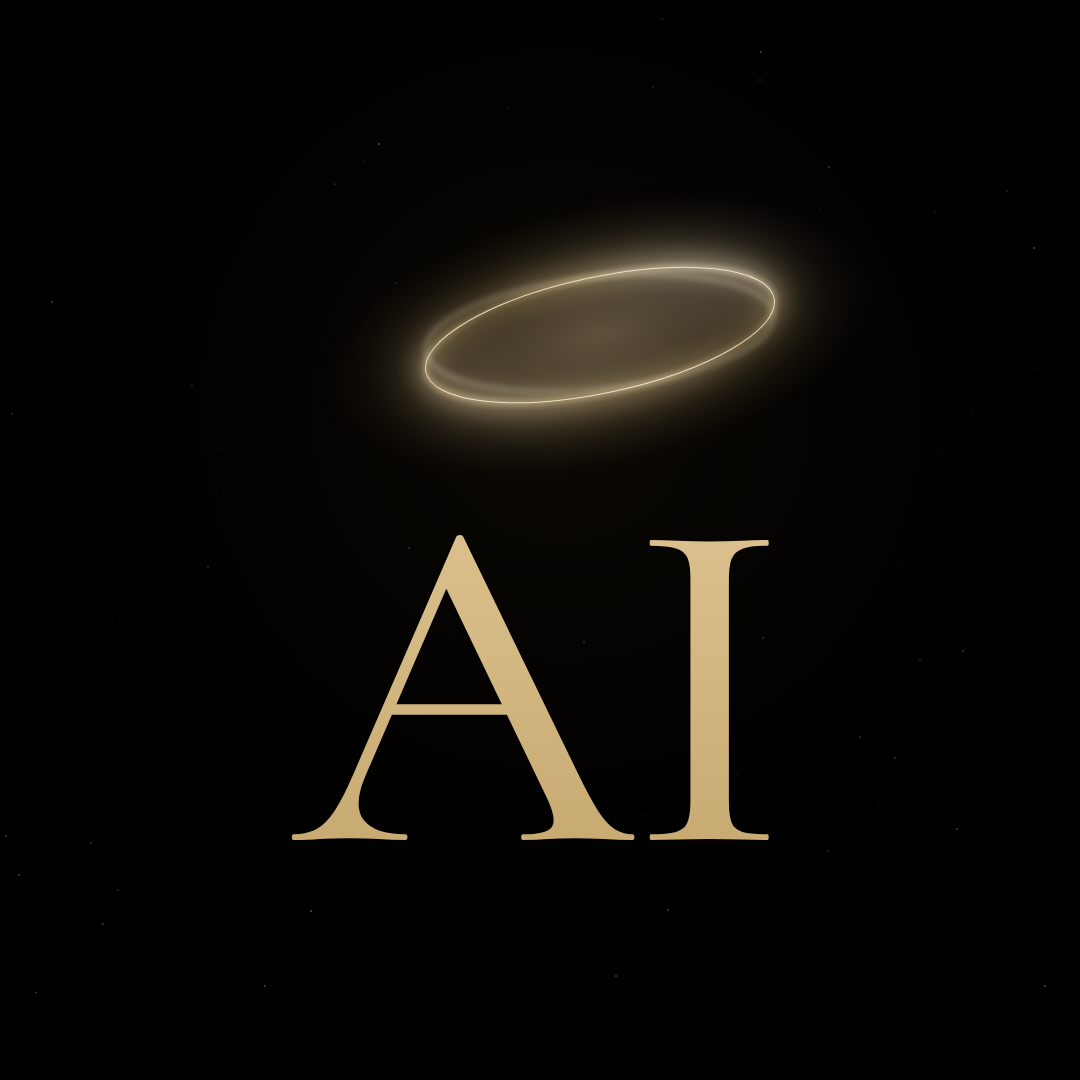
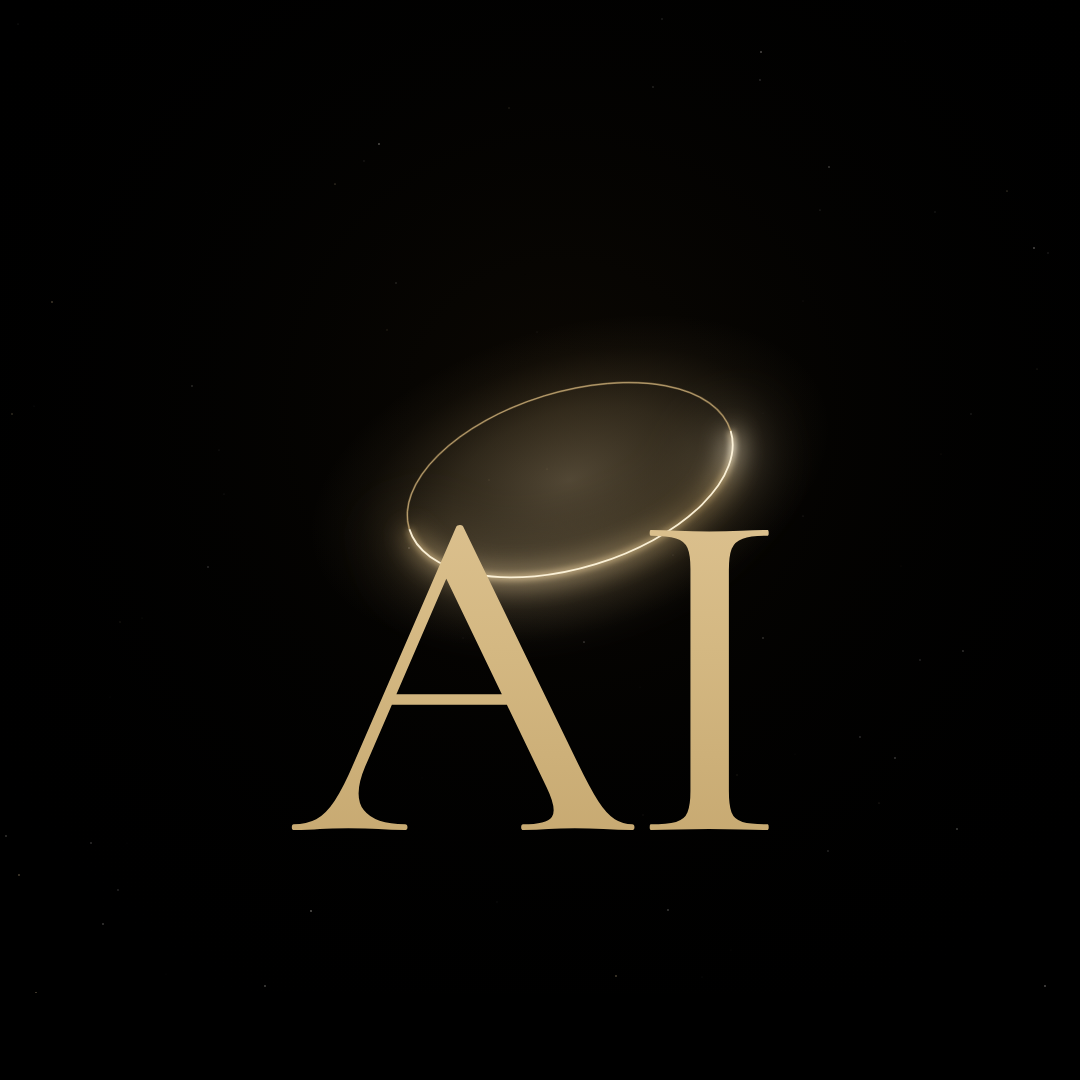
brand(assets): halo rev 3 - Byzantine tilted disc behind letters
Replace floating "saucer" halo with a tilted disc positioned behind-and-above
the letters, per Robby's feedback. Changes:
- Rounder perspective: ry/rx raised 0.33 -> 0.52 (disc-like, not flat UFO)
- Stronger z-rotation: -12 -> -17 degrees
- Halo center moved down so bottom rim passes behind letter caps
- Arc asymmetry: visible upper rim gets layered bloom + warm-white core;
  hidden lower rim is thin dim (since letters occlude it anyway)
- Locks B (champagne #D4B882) as chosen palette pending halo approval

View: /brand-assets/halo-rev.html

https://claude.ai/code/session_017x48DJnKDRR6Pi66PS21iM

Changed region(s): [[0.3361, 0.1833, 0.7639, 0.7028], [0.4889, 0.6722, 0.7333, 0.7944], [0.275, 0.7028, 0.3972, 0.7944]]

diff --git a/public/brand-assets/halo-rev.html b/public/brand-assets/halo-rev.html
@@ -1,0 +1,167 @@
+<!doctype html>
+<html lang="en">
+<head>
+<meta charset="utf-8" />
+<meta name="viewport" content="width=device-width, initial-scale=1, viewport-fit=cover" />
+<title>AImighty · Halo Rev 3 (Variant B)</title>
+<link rel="preconnect" href="https://fonts.googleapis.com">
+<link rel="preconnect" href="https://fonts.gstatic.com" crossorigin>
+<link href="https://fonts.googleapis.com/css2?family=Cormorant+Garamond:ital,wght@0,400;0,500;0,600;1,500&family=Outfit:wght@300;400;500;600&display=swap" rel="stylesheet">
+<style>
+  :root {
+    --void: #030308;
+    --void-soft: #0a0a12;
+    --gold: #d4b882;
+    --gold-hi: #e2c899;
+    --gold-lo: #bfa067;
+    --text: rgba(245, 240, 232, 0.95);
+    --text-dim: rgba(245, 240, 232, 0.55);
+    --hairline: rgba(212, 184, 130, 0.22);
+  }
+  * { box-sizing: border-box; }
+  html, body { margin: 0; padding: 0; background: var(--void); color: var(--text); }
+  body {
+    font-family: 'Outfit', -apple-system, BlinkMacSystemFont, sans-serif;
+    font-weight: 300;
+    min-height: 100dvh;
+    -webkit-font-smoothing: antialiased;
+    line-height: 1.55;
+    padding: 0 0 env(safe-area-inset-bottom);
+  }
+  header {
+    padding: 48px 20px 24px;
+    text-align: center;
+    border-bottom: 1px solid var(--hairline);
+  }
+  .logo {
+    font-family: 'Cormorant Garamond', serif;
+    font-weight: 500;
+    font-size: 38px;
+    letter-spacing: 1px;
+  }
+  .logo .ai { color: var(--gold); }
+  h1 {
+    font-family: 'Cormorant Garamond', serif;
+    font-weight: 500;
+    font-size: 26px;
+    margin: 18px 0 6px;
+    letter-spacing: 0.5px;
+  }
+  header p { margin: 4px 0; color: var(--text-dim); font-size: 15px; }
+  main { max-width: 620px; margin: 0 auto; padding: 32px 20px 80px; }
+  section { margin-bottom: 40px; }
+  h2 {
+    font-family: 'Cormorant Garamond', serif;
+    font-weight: 500;
+    font-size: 22px;
+    color: var(--gold);
+    border-bottom: 1px solid var(--hairline);
+    padding-bottom: 10px;
+    margin: 0 0 20px;
+    letter-spacing: 1px;
+    text-transform: uppercase;
+  }
+  .intro {
+    background: var(--void-soft);
+    border: 1px solid var(--hairline);
+    border-radius: 10px;
+    padding: 18px 20px;
+    color: var(--text-dim);
+    font-size: 15px;
+  }
+  .intro strong { color: var(--gold-hi); font-weight: 500; }
+  figure { margin: 0 0 24px; }
+  figure img {
+    display: block; width: 100%; height: auto;
+    border: 1px solid rgba(245,240,232,0.06);
+    border-radius: 8px;
+    background: #000;
+  }
+  figcaption {
+    text-align: center;
+    color: var(--text-dim);
+    font-size: 14px;
+    margin-top: 10px;
+    letter-spacing: 1px;
+  }
+  ul.checklist { list-style: none; padding: 0; margin: 0; font-size: 15px; }
+  ul.checklist li {
+    padding: 10px 0; border-bottom: 1px solid rgba(245,240,232,0.06);
+    display: flex; gap: 10px; align-items: flex-start;
+  }
+  ul.checklist li::before {
+    content: "·"; color: var(--gold); font-size: 22px; line-height: 1; font-weight: 600;
+  }
+  ul.checklist li b { color: var(--gold-hi); font-weight: 500; }
+  .cta-note {
+    text-align: center; font-family: 'Cormorant Garamond', serif;
+    font-style: italic; color: var(--gold-hi);
+    font-size: 20px; margin: 24px 0 8px;
+  }
+  .cta-sub { text-align: center; color: var(--text-dim); font-size: 14px; }
+  .prev-link {
+    display: block; text-align: center; margin-top: 16px;
+    color: var(--text-dim); font-size: 13px; letter-spacing: 1px;
+    text-decoration: none; border: 1px solid var(--hairline);
+    padding: 10px 16px; border-radius: 6px;
+  }
+  footer {
+    border-top: 1px solid var(--hairline);
+    margin-top: 40px; padding: 28px 20px;
+    text-align: center; color: var(--text-dim); font-size: 12px;
+    letter-spacing: 2px;
+  }
+</style>
+</head>
+<body>
+
+<header>
+  <div class="logo"><span class="ai">AI</span><span>mighty</span></div>
+  <h1>Halo · Rev 3</h1>
+  <p>Variant B (Champagne gold · #D4B882) · pre-final-asset review</p>
+</header>
+
+<main>
+
+  <section>
+    <div class="intro">
+      <strong>What changed.</strong> The halo is now a tilted disc rather than a flat saucer.
+      It sits <em>behind and above</em> the letters — the bottom rim is occluded by the AI
+      glyphs, the top rim glows above them. Stronger z-rotation (17°), rounder disc (ry/rx ≈ 0.52),
+      and asymmetric bloom so the visible back rim reads as the luminous edge.
+    </div>
+  </section>
+
+  <section>
+    <h2>Preview · Variant B</h2>
+    <figure>
+      <img src="/brand-assets/preview/profile-variant-B-champagne.png?v=3" alt="Variant B champagne gold with Byzantine halo rev 3" />
+      <figcaption>1080 × 1080 · black bg · champagne gold #D4B882</figcaption>
+    </figure>
+  </section>
+
+  <section>
+    <h2>Design checklist</h2>
+    <ul class="checklist">
+      <li><span><b>Tilted perspective.</b> 17° z-rotation, ry/rx ≈ 0.52 — reads as a disc in 3D, not a saucer.</span></li>
+      <li><span><b>Behind the letters.</b> Halo center overlaps upper glyphs; front rim hidden behind AI.</span></li>
+      <li><span><b>Bloom on the visible rim.</b> Layered Gaussian blur + warm-white core line — catches light like gold leaf.</span></li>
+      <li><span><b>Muted champagne palette.</b> #D4B882 with #BFA067 shadow and #E2C899 highlight — soft, not flashy.</span></li>
+      <li><span><b>Cormorant Garamond 600.</b> AI wordmark with vertical gold sheen, crisp edges.</span></li>
+    </ul>
+  </section>
+
+  <section>
+    <p class="cta-note">"Every belief. One voice."</p>
+    <p class="cta-sub">Approve the halo and I'll build all 5 assets + the master SVG.</p>
+    <a class="prev-link" href="/brand-assets/preview.html">← back to full 3-gold comparison</a>
+  </section>
+
+</main>
+
+<footer>
+  AIMIGHTY &nbsp;·&nbsp; HALO&nbsp;REV&nbsp;3 &nbsp;·&nbsp; APR&nbsp;2026
+</footer>
+
+</body>
+</html>
